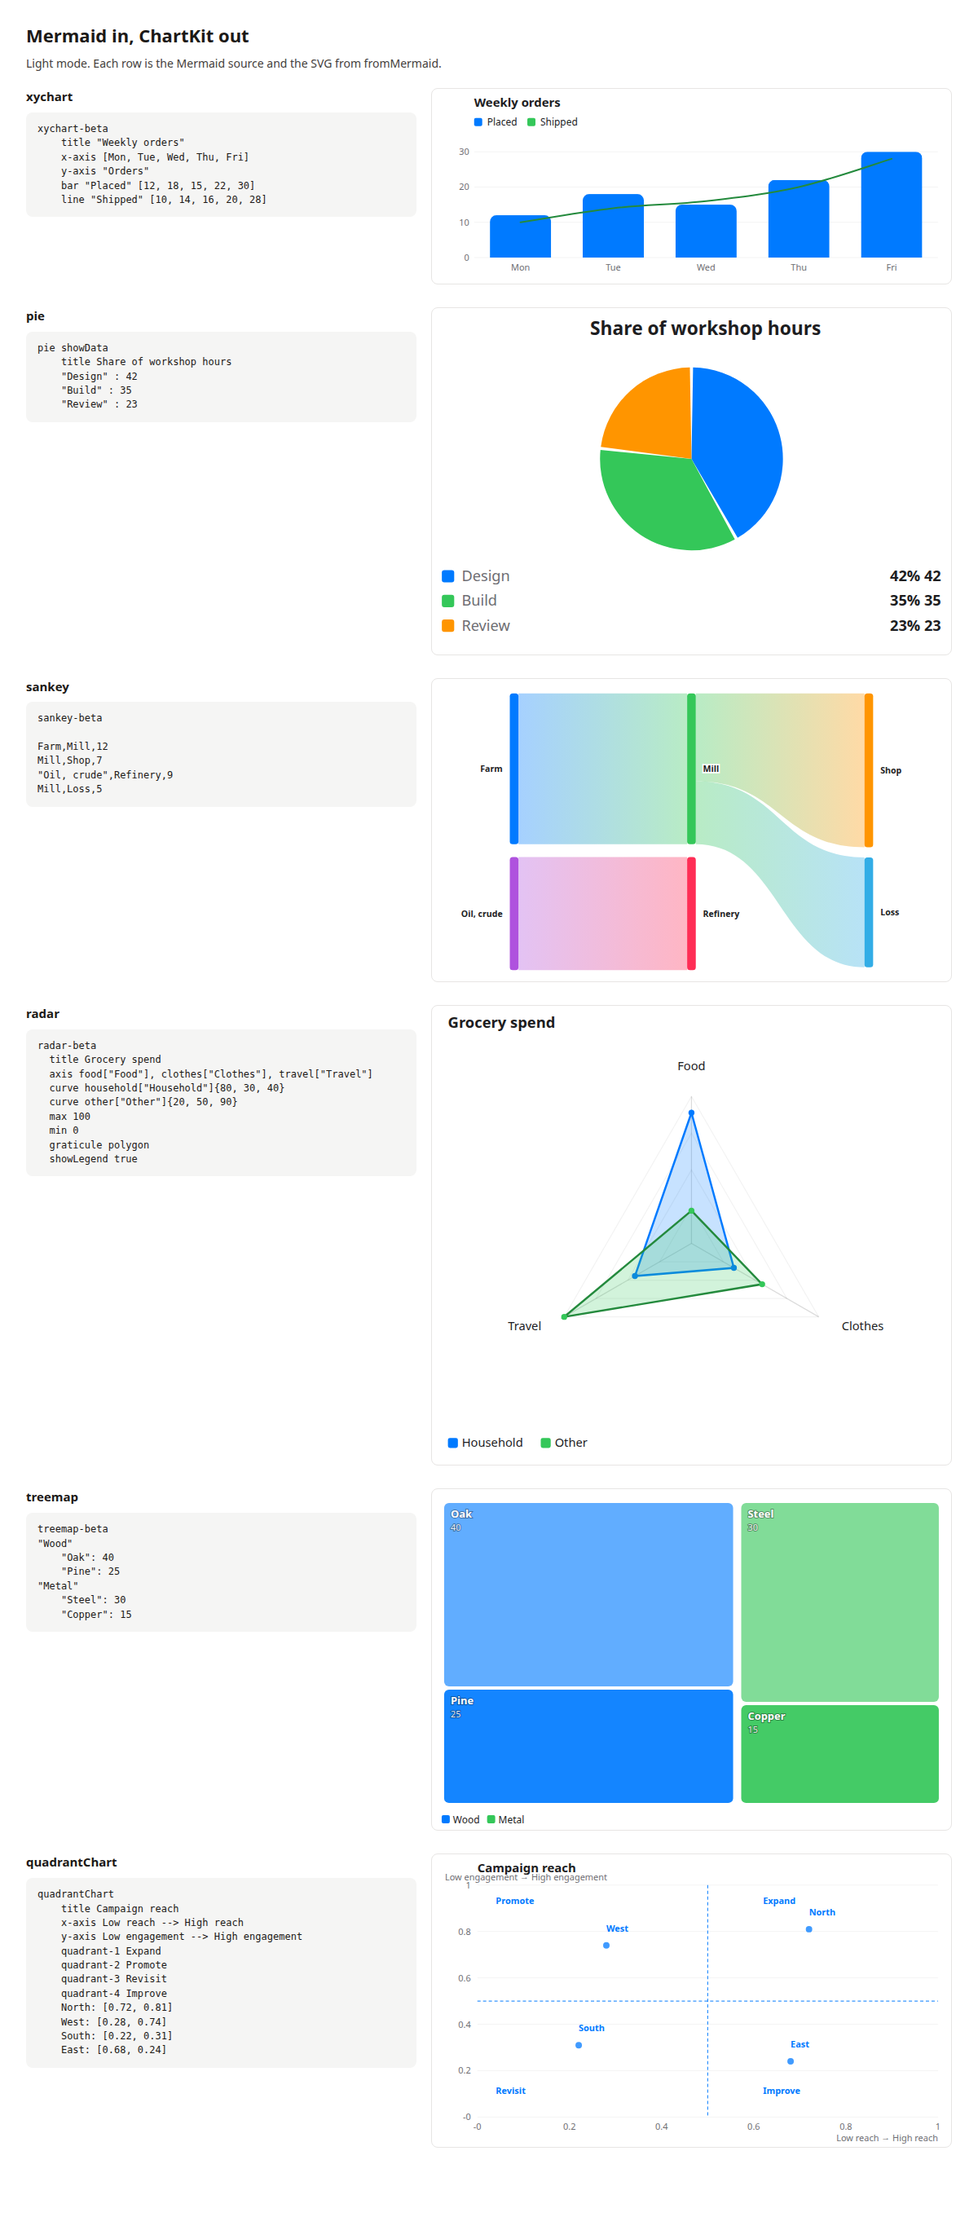
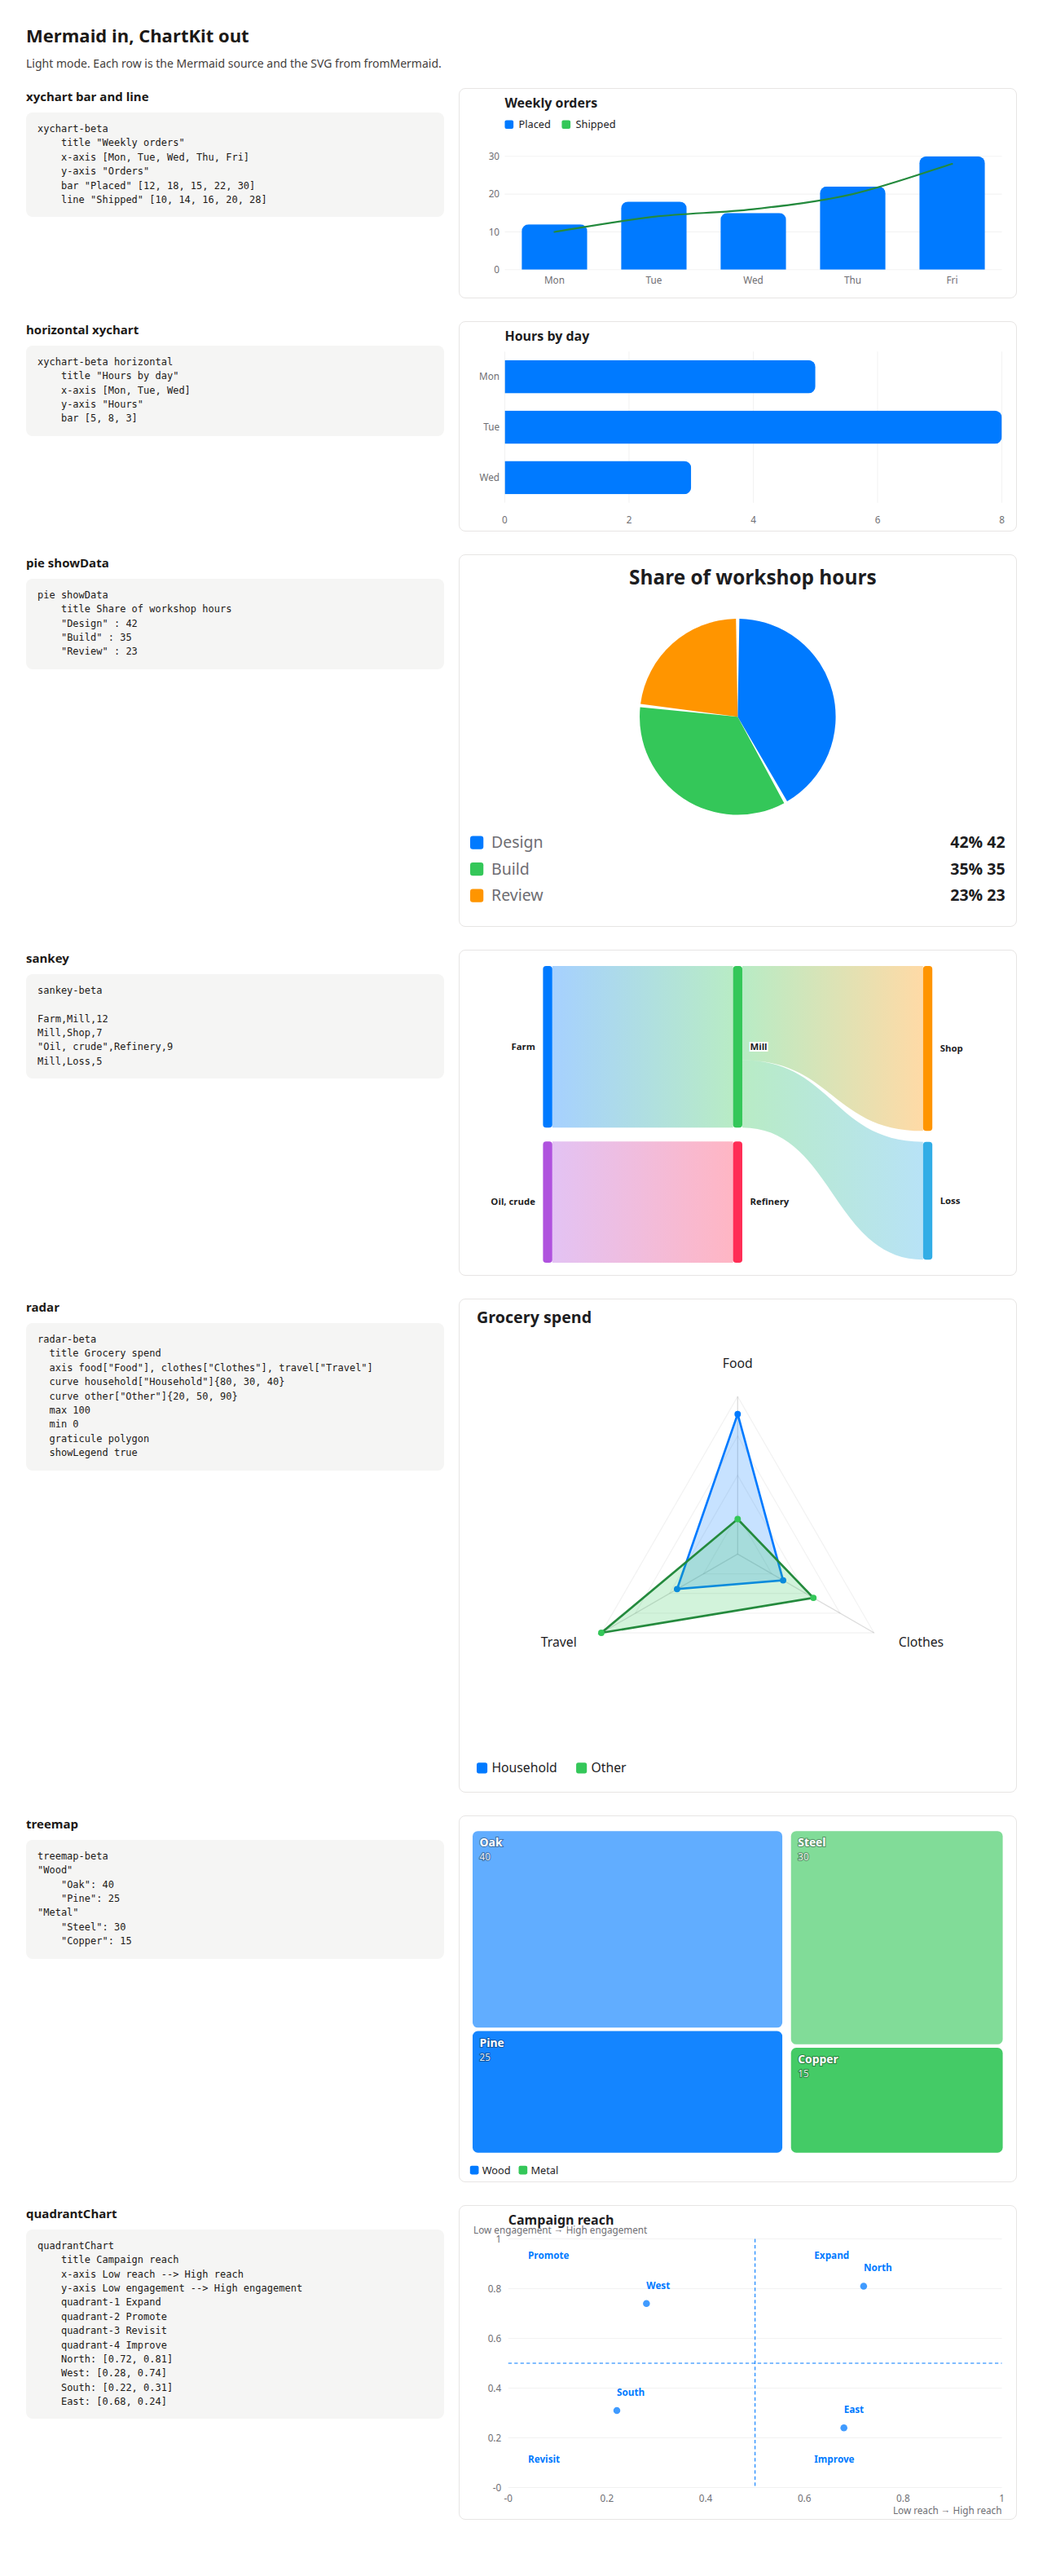
Add a lean auto-render build and the full Mermaid sheet.
chartkit.auto.global.js draws ChartKit fences without the Mermaid parser and loads chartkit.mermaid.global.js when a Mermaid block is on the page.

diff --git a/packages/vanilla/src/global-auto.ts b/packages/vanilla/src/global-auto.ts
@@ -1,0 +1,73 @@
+import type { ChartSpec } from "@chartkitdev/core";
+import { render } from "@chartkitdev/core/extra";
+import { mermaidScriptUrl, mountFences, type FenceResult } from "./mount-fences";
+
+interface MermaidApi {
+  fromMermaid: (text: string, options?: { maxSource?: number; maxPoints?: number }) => FenceResult;
+  toSpec: (text: string, options?: { maxSource?: number; maxPoints?: number }) => FenceResult;
+}
+
+const root = globalThis as { ChartKit?: Record<string, unknown>; ChartKitMermaid?: MermaidApi };
+const draw = render as (spec: ChartSpec) => string;
+
+function chartkitJson(text: string): FenceResult {
+  const trimmed = text.replace(/^\uFEFF/, "").trim();
+  if (!trimmed.startsWith("{")) return { spec: null };
+  try {
+    const value = JSON.parse(trimmed) as unknown;
+    if (typeof value === "object" && value !== null && !Array.isArray(value)) {
+      const spec = value as Record<string, unknown>;
+      if (typeof spec.type === "string" || typeof spec.version === "string") return { spec };
+    }
+  } catch {
+    return { spec: null };
+  }
+  return { spec: null };
+}
+
+const script = typeof document === "undefined" ? null : document.currentScript;
+const wantMermaid = script instanceof HTMLScriptElement && script.hasAttribute("data-chartkit-mermaid");
+
+function loadMermaid(): Promise<MermaidApi> {
+  if (root.ChartKitMermaid) return Promise.resolve(root.ChartKitMermaid);
+  const src = script instanceof HTMLScriptElement && script.src ? mermaidScriptUrl(script.src) : "chartkit.mermaid.global.js";
+  return new Promise((resolve, reject) => {
+    const el = document.createElement("script");
+    el.src = src;
+    el.async = true;
+    el.onload = () => (root.ChartKitMermaid ? resolve(root.ChartKitMermaid) : reject(new Error("ChartKit Mermaid parser did not register")));
+    el.onerror = () => reject(new Error("ChartKit Mermaid parser failed to load"));
+    document.head.appendChild(el);
+  });
+}
+
+function autoRender(scope: ParentNode = document, options: { mermaid?: boolean; maxSource?: number; maxPoints?: number } = {}): number {
+  const parser = root.ChartKitMermaid;
+  return mountFences(scope, {
+    ...options,
+    render: draw,
+    toSpec: parser?.toSpec ?? chartkitJson,
+    fromMermaid: parser?.fromMermaid,
+  });
+}
+
+root.ChartKit = { autoRender, loadMermaid };
+
+function boot(): void {
+  autoRender(document);
+  if (!wantMermaid || !document.querySelector("pre.mermaid, code.language-mermaid")) return;
+  loadMermaid()
+    .then(() => {
+      if (root.ChartKit) {
+        root.ChartKit.fromMermaid = root.ChartKitMermaid?.fromMermaid;
+        root.ChartKit.toSpec = root.ChartKitMermaid?.toSpec;
+      }
+      autoRender(document, { mermaid: true });
+    })
+    .catch(() => undefined);
+}
+
+if (typeof document !== "undefined") {
+  if (document.readyState === "loading") document.addEventListener("DOMContentLoaded", boot);
+  else boot();
+}

diff --git a/packages/vanilla/src/mount-fences.ts b/packages/vanilla/src/mount-fences.ts
@@ -1,0 +1,54 @@
+import type { ChartSpec } from "@chartkitdev/core";
+import { mount } from "./index";
+
+export interface FenceResult {
+  spec: Record<string, unknown> | null;
+}
+
+export interface FenceOptions {
+  mermaid?: boolean;
+  maxSource?: number;
+  maxPoints?: number;
+  render: (spec: ChartSpec) => string;
+  toSpec: (text: string, options?: { maxSource?: number; maxPoints?: number }) => FenceResult;
+  fromMermaid?: (text: string, options?: { maxSource?: number; maxPoints?: number }) => FenceResult;
+}
+
+/** Mount chart fences. Mermaid blocks are skipped unless `fromMermaid` is provided. */
+export function mountFences(root: ParentNode, options: FenceOptions): number {
+  const selectors = ["pre.chartkit", "code.language-chartkit"];
+  const mermaidOn = options.mermaid === true && typeof options.fromMermaid === "function";
+  if (mermaidOn) selectors.push("pre.mermaid", "code.language-mermaid");
+  const nodes = Array.from(root.querySelectorAll(selectors.join(",")));
+  const blocks = nodes.filter((node) => !nodes.some((other) => other !== node && other.contains(node)));
+  let mounted = 0;
+  for (const node of blocks) {
+    if (!(node instanceof HTMLElement)) continue;
+    const mermaid = mermaidOn && (node.matches("pre.mermaid, code.language-mermaid") || node.closest("pre.mermaid, code.language-mermaid") !== null);
+    const source = node.textContent ?? "";
+    const limits = { maxSource: options.maxSource, maxPoints: options.maxPoints };
+    const result = mermaid ? options.fromMermaid!(source, limits) : options.toSpec(source, limits);
+    if (!result.spec) continue;
+    const block = node.tagName === "CODE" && node.parentElement?.tagName === "PRE" ? node.parentElement : node;
+    const host = block.ownerDocument.createElement("div");
+    host.className = "chartkit";
+    block.replaceWith(host);
+    try {
+      const markup = options.render(result.spec as ChartSpec);
+      if (!markup.includes("<svg") || /<script/i.test(markup)) {
+        host.replaceWith(block);
+        continue;
+      }
+      mount(host, result.spec as ChartSpec, { render: options.render });
+      mounted += 1;
+    } catch {
+      host.replaceWith(block);
+    }
+  }
+  return mounted;
+}
+
+/** Sibling URL for the on-demand Mermaid parser next to chartkit.auto.global.js. */
+export function mermaidScriptUrl(scriptSrc: string): string {
+  return new URL("chartkit.mermaid.global.js", scriptSrc).href;
+}

diff --git a/docs/app/docs/mermaid/page.tsx b/docs/app/docs/mermaid/page.tsx
@@ -71,10 +71,11 @@ const { spec, warnings } = fromMermaid(\`${xy}\`);`}
 autoRender(document, { mermaid: true });`}
       />
       <p>
-        The CDN build is <code>dist/chartkit.global.js</code>. It exposes <code>ChartKit.autoRender</code>,{" "}
-        <code>ChartKit.fromMermaid</code>, and <code>ChartKit.toSpec</code>. Add{" "}
-        <code>data-chartkit-mermaid</code> on the script tag to mount supported Mermaid blocks. Unsupported Mermaid
-        blocks stay as source.
+        <code>dist/chartkit.global.js</code> is the one-file build: <code>ChartKit.autoRender</code>,{" "}
+        <code>ChartKit.fromMermaid</code>, and <code>ChartKit.toSpec</code>.{" "}
+        <code>dist/chartkit.auto.global.js</code> is the same auto-render without the Mermaid parser. With{" "}
+        <code>data-chartkit-mermaid</code> and a Mermaid block on the page, it loads the sibling{" "}
+        <code>chartkit.mermaid.global.js</code>. Unsupported Mermaid blocks stay as source.
       </p>
       <CodeBlock
         label="html"
@@ -98,8 +99,9 @@ rehype().use(rehypeParse).use(rehypeChartkit);`}
       />
       <h2>Limits</h2>
       <p>
-        A y-axis range on <code>xychart</code> is kept on the spec and warned: bar and line axes are sized from the
-        data. Radar draws to the largest value, with a polygon graticule. A treemap keeps one group level. Quadrant
+        A y-axis range on <code>xychart</code> is stored as <code>encoding.y.scale.domain</code> and warned. Bar and
+        line charts size the axis from the data, and <code>axes.y</code> has no min or max. Radar has no min or max
+        either, so it draws to the largest value, with a polygon graticule. A treemap keeps one group level. Quadrant
         point radius is not drawn. <code>showData</code> prints the value in the legend.
       </p>
       <h2>Security</h2>

diff --git a/packages/vanilla/src/__tests__/auto.test.ts b/packages/vanilla/src/__tests__/auto.test.ts
@@ -1,5 +1,6 @@
 import { describe, expect, it } from "vitest";
 import { autoRender } from "../auto";
+import { mermaidScriptUrl, mountFences } from "../mount-fences";
 
 function mountHtml(html: string): void {
   document.body.innerHTML = html;
@@ -35,6 +36,17 @@ describe("autoRender", () => {
     expect(autoRender(document)).toBe(1);
     expect(document.querySelector("pre")).toBeNull();
     expect(document.querySelector("svg")?.getAttribute("data-ck-type")).toBe("donut");
+  });
+
+  it("leaves mermaid fences in place until a parser is passed", () => {
+    mountHtml(`<pre class="mermaid">pie
+    title Share of workshop hours
+    "Design": 42
+    "Build": 10</pre>`);
+    const render = () => "<svg></svg>";
+    expect(mountFences(document, { mermaid: true, render, toSpec: () => ({ spec: null }) })).toBe(0);
+    expect(document.querySelector("pre.mermaid")).not.toBeNull();
+    expect(mermaidScriptUrl("https://cdn.example/chartkit.auto.global.js")).toBe("https://cdn.example/chartkit.mermaid.global.js");
   });
 
   it("does not mount the same fence twice", () => {

diff --git a/packages/vanilla/src/global-mermaid.ts b/packages/vanilla/src/global-mermaid.ts
@@ -1,0 +1,9 @@
+import { fromMermaid, toSpec } from "@chartkitdev/core/mermaid";
+
+const api = { fromMermaid, toSpec };
+const root = globalThis as { ChartKit?: Record<string, unknown>; ChartKitMermaid?: typeof api };
+root.ChartKitMermaid = api;
+if (root.ChartKit) {
+  root.ChartKit.fromMermaid = fromMermaid;
+  root.ChartKit.toSpec = toSpec;
+}
